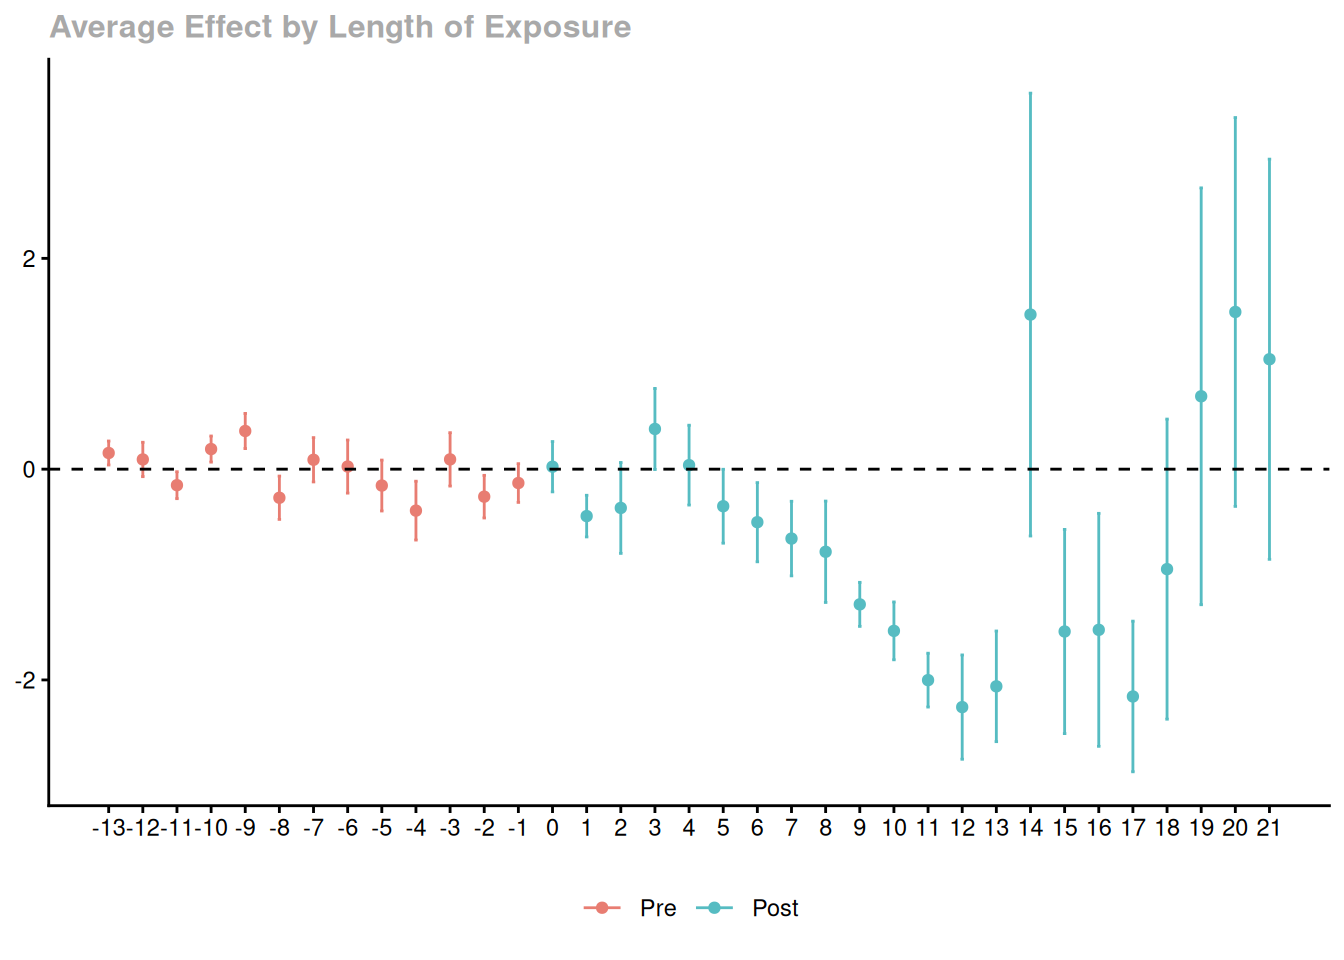
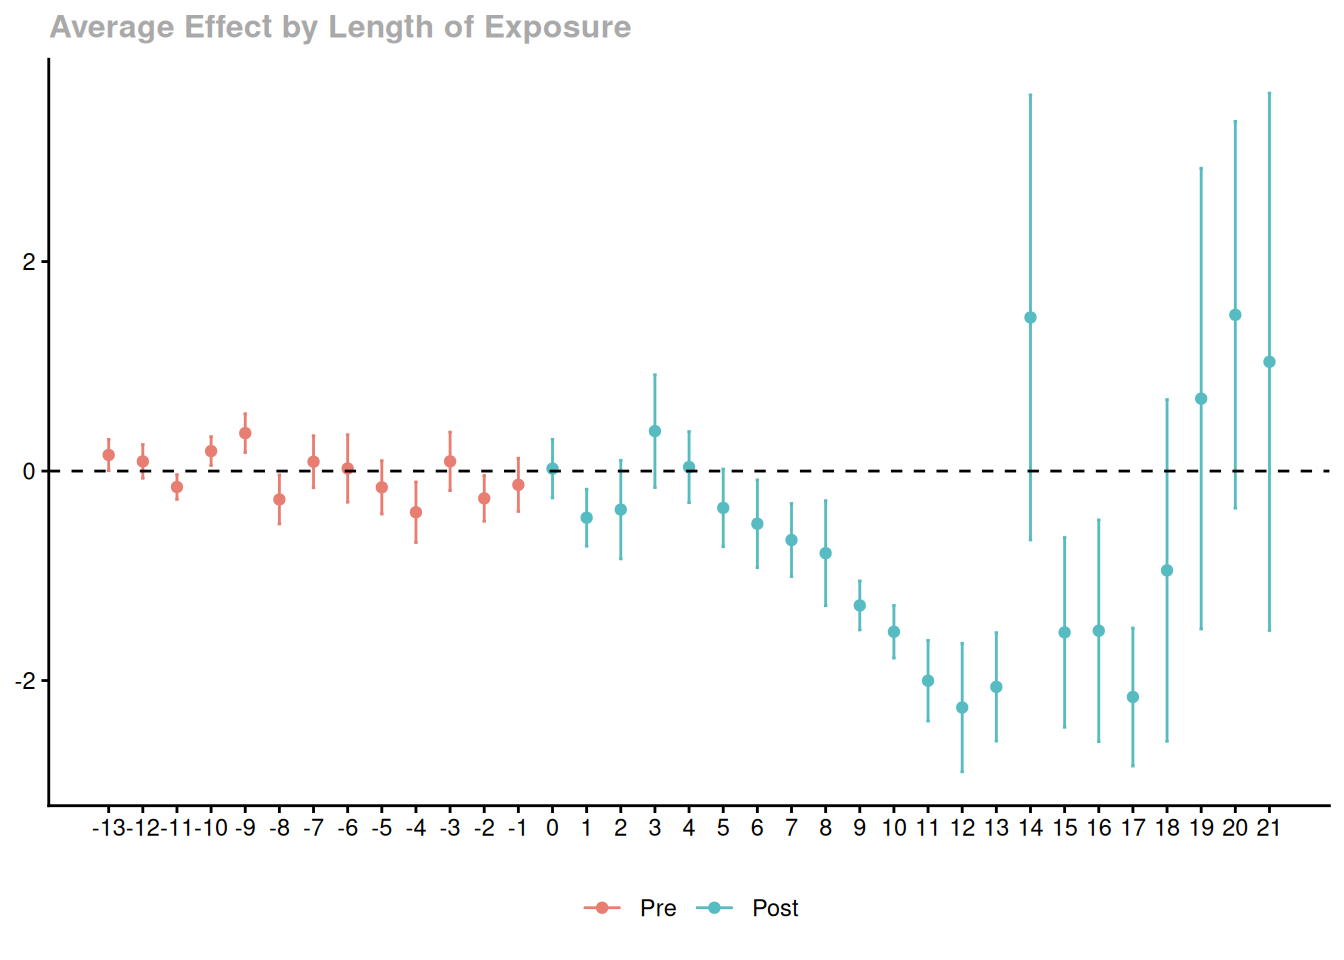
rerender

diff --git a/docs/09_double_difference.html b/docs/09_double_difference.html
@@ -137,7 +137,7 @@ pre > code.sourceCode > span > a:first-child::before { text-decoration: underlin
     <div class="sidebar-title mb-0 py-0">
       <a href="./">Evaluation d’impact de politiques et projets</a> 
         <div class="sidebar-tools-main">
-    <a href="https://github.com/BETSAKA/statcap_impact_training" title="Source Code" class="quarto-navigation-tool px-1" aria-label="Source Code"><i class="bi bi-github"></i></a>
+    <a href="https://github.com/BETSAKA/Tany_Vao_formation_impact_2026" title="Source Code" class="quarto-navigation-tool px-1" aria-label="Source Code"><i class="bi bi-github"></i></a>
 </div>
     </div>
       </div>
@@ -384,46 +384,46 @@ Reference: Callaway, Brantly and Pedro H.C. Sant'Anna.  "Difference-in-Differenc
 
 Overall summary of ATT's based on event-study/dynamic aggregation:  
      ATT    Std. Error     [ 95%  Conf. Int.]  
- -0.6038        0.1209    -0.8407     -0.3668 *
+ -0.6038        0.1473    -0.8925     -0.3151 *
 
 
 Dynamic Effects:
  Event time Estimate Std. Error [95% Simult.  Conf. Band]  
-        -13   0.1535     0.0355        0.0399      0.2670 *
-        -12   0.0921     0.0510       -0.0709      0.2551  
-        -11  -0.1521     0.0399       -0.2799     -0.0244 *
-        -10   0.1907     0.0387        0.0668      0.3146 *
-         -9   0.3622     0.0521        0.1954      0.5289 *
-         -8  -0.2713     0.0642       -0.4767     -0.0660 *
-         -7   0.0891     0.0657       -0.1212      0.2993  
-         -6   0.0248     0.0787       -0.2271      0.2767  
-         -5  -0.1555     0.0754       -0.3968      0.0858  
-         -4  -0.3934     0.0873       -0.6727     -0.1141 *
-         -3   0.0927     0.0791       -0.1603      0.3458  
-         -2  -0.2609     0.0633       -0.4633     -0.0585 *
-         -1  -0.1315     0.0574       -0.3152      0.0522  
-          0   0.0233     0.0747       -0.2155      0.2622  
-          1  -0.4453     0.0618       -0.6430     -0.2476 *
-          2  -0.3679     0.1348       -0.7991      0.0632  
-          3   0.3815     0.1202       -0.0031      0.7661  
-          4   0.0381     0.1184       -0.3408      0.4169  
-          5  -0.3516     0.1096       -0.7022     -0.0011 *
-          6  -0.5031     0.1174       -0.8785     -0.1276 *
-          7  -0.6586     0.1105       -1.0122     -0.3050 *
-          8  -0.7840     0.1503       -1.2647     -0.3032 *
-          9  -1.2830     0.0652       -1.4916     -1.0744 *
-         10  -1.5345     0.0858       -1.8089     -1.2601 *
-         11  -2.0019     0.0798       -2.2572     -1.7465 *
-         12  -2.2578     0.1547       -2.7526     -1.7630 *
-         13  -2.0607     0.1640       -2.5853     -1.5362 *
-         14   1.4668     0.6568       -0.6342      3.5678  
-         15  -1.5404     0.3028       -2.5090     -0.5719 *
-         16  -1.5246     0.3456       -2.6300     -0.4192 *
-         17  -2.1570     0.2234       -2.8715     -1.4425 *
-         18  -0.9486     0.4450       -2.3721      0.4750  
-         19   0.6915     0.6182       -1.2860      2.6689  
-         20   1.4917     0.5767       -0.3531      3.3366  
-         21   1.0431     0.5936       -0.8556      2.9418  
+        -13   0.1535     0.0430        0.0048      0.3021 *
+        -12   0.0921     0.0465       -0.0689      0.2530  
+        -11  -0.1521     0.0341       -0.2701     -0.0341 *
+        -10   0.1907     0.0399        0.0529      0.3285 *
+         -9   0.3622     0.0536        0.1769      0.5474 *
+         -8  -0.2713     0.0676       -0.5052     -0.0375 *
+         -7   0.0891     0.0718       -0.1590      0.3372  
+         -6   0.0248     0.0931       -0.2971      0.3466  
+         -5  -0.1555     0.0735       -0.4098      0.0988  
+         -4  -0.3934     0.0836       -0.6824     -0.1045 *
+         -3   0.0927     0.0809       -0.1868      0.3723  
+         -2  -0.2609     0.0632       -0.4793     -0.0425 *
+         -1  -0.1315     0.0734       -0.3853      0.1223  
+          0   0.0233     0.0808       -0.2561      0.3028  
+          1  -0.4453     0.0786       -0.7172     -0.1734 *
+          2  -0.3679     0.1361       -0.8384      0.1025  
+          3   0.3815     0.1557       -0.1568      0.9198  
+          4   0.0381     0.0981       -0.3012      0.3773  
+          5  -0.3516     0.1072       -0.7222      0.0189  
+          6  -0.5031     0.1212       -0.9220     -0.0841 *
+          7  -0.6586     0.1010       -1.0078     -0.3094 *
+          8  -0.7840     0.1448       -1.2847     -0.2832 *
+          9  -1.2830     0.0676       -1.5168     -1.0491 *
+         10  -1.5345     0.0728       -1.7862     -1.2829 *
+         11  -2.0019     0.1113       -2.3868     -1.6170 *
+         12  -2.2578     0.1774       -2.8713     -1.6444 *
+         13  -2.0607     0.1496       -2.5780     -1.5434 *
+         14   1.4668     0.6144       -0.6576      3.5912  
+         15  -1.5404     0.2620       -2.4463     -0.6346 *
+         16  -1.5246     0.3061       -2.5832     -0.4661 *
+         17  -2.1570     0.1905       -2.8157     -1.4983 *
+         18  -0.9486     0.4718       -2.5799      0.6828  
+         19   0.6915     0.6360       -1.5076      2.8905  
+         20   1.4917     0.5340       -0.3546      3.3380  
+         21   1.0431     0.7418       -1.5220      3.6082  
 ---
 Signif. codes: `*' confidence band does not cover 0
 
@@ -544,7 +544,7 @@ Estimation Method:  Doubly Robust</code></pre>
     }
       var localhostRegex = new RegExp(/^(?:http|https):\/\/localhost\:?[0-9]*\//);
       var mailtoRegex = new RegExp(/^mailto:/);
-        var filterRegex = new RegExp("https:\/\/github\.com\/BETSAKA\/statcap_impact_training\/");
+        var filterRegex = new RegExp("https:\/\/github\.com\/BETSAKA\/Tany_Vao_formation_impact_2026\/");
       var isInternal = (href) => {
           return filterRegex.test(href) || localhostRegex.test(href) || mailtoRegex.test(href);
       }

diff --git a/docs/00_programme.html b/docs/00_programme.html
@@ -102,7 +102,7 @@ ul.task-list li input[type="checkbox"] {
     <div class="sidebar-title mb-0 py-0">
       <a href="./">Evaluation d’impact de politiques et projets</a> 
         <div class="sidebar-tools-main">
-    <a href="https://github.com/BETSAKA/statcap_impact_training" title="Source Code" class="quarto-navigation-tool px-1" aria-label="Source Code"><i class="bi bi-github"></i></a>
+    <a href="https://github.com/BETSAKA/Tany_Vao_formation_impact_2026" title="Source Code" class="quarto-navigation-tool px-1" aria-label="Source Code"><i class="bi bi-github"></i></a>
 </div>
     </div>
       </div>
@@ -442,7 +442,7 @@ ul.task-list li input[type="checkbox"] {
     }
       var localhostRegex = new RegExp(/^(?:http|https):\/\/localhost\:?[0-9]*\//);
       var mailtoRegex = new RegExp(/^mailto:/);
-        var filterRegex = new RegExp("https:\/\/github\.com\/BETSAKA\/statcap_impact_training\/");
+        var filterRegex = new RegExp("https:\/\/github\.com\/BETSAKA\/Tany_Vao_formation_impact_2026\/");
       var isInternal = (href) => {
           return filterRegex.test(href) || localhostRegex.test(href) || mailtoRegex.test(href);
       }

diff --git a/docs/01_introduction.html b/docs/01_introduction.html
@@ -121,7 +121,7 @@ div.csl-indent {
     <div class="sidebar-title mb-0 py-0">
       <a href="./">Evaluation d’impact de politiques et projets</a> 
         <div class="sidebar-tools-main">
-    <a href="https://github.com/BETSAKA/statcap_impact_training" title="Source Code" class="quarto-navigation-tool px-1" aria-label="Source Code"><i class="bi bi-github"></i></a>
+    <a href="https://github.com/BETSAKA/Tany_Vao_formation_impact_2026" title="Source Code" class="quarto-navigation-tool px-1" aria-label="Source Code"><i class="bi bi-github"></i></a>
 </div>
     </div>
       </div>
@@ -416,7 +416,7 @@ Devenish, Katie, Sébastien Desbureaux, Simon Willcock, and Julia P. G. Jones. 2
     }
       var localhostRegex = new RegExp(/^(?:http|https):\/\/localhost\:?[0-9]*\//);
       var mailtoRegex = new RegExp(/^mailto:/);
-        var filterRegex = new RegExp("https:\/\/github\.com\/BETSAKA\/statcap_impact_training\/");
+        var filterRegex = new RegExp("https:\/\/github\.com\/BETSAKA\/Tany_Vao_formation_impact_2026\/");
       var isInternal = (href) => {
           return filterRegex.test(href) || localhostRegex.test(href) || mailtoRegex.test(href);
       }

diff --git a/docs/02_bases_R.html b/docs/02_bases_R.html
@@ -137,7 +137,7 @@ pre > code.sourceCode > span > a:first-child::before { text-decoration: underlin
     <div class="sidebar-title mb-0 py-0">
       <a href="./">Evaluation d’impact de politiques et projets</a> 
         <div class="sidebar-tools-main">
-    <a href="https://github.com/BETSAKA/statcap_impact_training" title="Source Code" class="quarto-navigation-tool px-1" aria-label="Source Code"><i class="bi bi-github"></i></a>
+    <a href="https://github.com/BETSAKA/Tany_Vao_formation_impact_2026" title="Source Code" class="quarto-navigation-tool px-1" aria-label="Source Code"><i class="bi bi-github"></i></a>
 </div>
     </div>
       </div>
@@ -802,7 +802,7 @@ pre > code.sourceCode > span > a:first-child::before { text-decoration: underlin
     }
       var localhostRegex = new RegExp(/^(?:http|https):\/\/localhost\:?[0-9]*\//);
       var mailtoRegex = new RegExp(/^mailto:/);
-        var filterRegex = new RegExp("https:\/\/github\.com\/BETSAKA\/statcap_impact_training\/");
+        var filterRegex = new RegExp("https:\/\/github\.com\/BETSAKA\/Tany_Vao_formation_impact_2026\/");
       var isInternal = (href) => {
           return filterRegex.test(href) || localhostRegex.test(href) || mailtoRegex.test(href);
       }

diff --git a/docs/05_experimentations_aleatoires.html b/docs/05_experimentations_aleatoires.html
@@ -137,7 +137,7 @@ pre > code.sourceCode > span > a:first-child::before { text-decoration: underlin
     <div class="sidebar-title mb-0 py-0">
       <a href="./">Evaluation d’impact de politiques et projets</a> 
         <div class="sidebar-tools-main">
-    <a href="https://github.com/BETSAKA/statcap_impact_training" title="Source Code" class="quarto-navigation-tool px-1" aria-label="Source Code"><i class="bi bi-github"></i></a>
+    <a href="https://github.com/BETSAKA/Tany_Vao_formation_impact_2026" title="Source Code" class="quarto-navigation-tool px-1" aria-label="Source Code"><i class="bi bi-github"></i></a>
 </div>
     </div>
       </div>
@@ -464,7 +464,7 @@ pre > code.sourceCode > span > a:first-child::before { text-decoration: underlin
     }
       var localhostRegex = new RegExp(/^(?:http|https):\/\/localhost\:?[0-9]*\//);
       var mailtoRegex = new RegExp(/^mailto:/);
-        var filterRegex = new RegExp("https:\/\/github\.com\/BETSAKA\/statcap_impact_training\/");
+        var filterRegex = new RegExp("https:\/\/github\.com\/BETSAKA\/Tany_Vao_formation_impact_2026\/");
       var isInternal = (href) => {
           return filterRegex.test(href) || localhostRegex.test(href) || mailtoRegex.test(href);
       }

diff --git a/docs/06_avant_apres.html b/docs/06_avant_apres.html
@@ -137,7 +137,7 @@ pre > code.sourceCode > span > a:first-child::before { text-decoration: underlin
     <div class="sidebar-title mb-0 py-0">
       <a href="./">Evaluation d’impact de politiques et projets</a> 
         <div class="sidebar-tools-main">
-    <a href="https://github.com/BETSAKA/statcap_impact_training" title="Source Code" class="quarto-navigation-tool px-1" aria-label="Source Code"><i class="bi bi-github"></i></a>
+    <a href="https://github.com/BETSAKA/Tany_Vao_formation_impact_2026" title="Source Code" class="quarto-navigation-tool px-1" aria-label="Source Code"><i class="bi bi-github"></i></a>
 </div>
     </div>
       </div>
@@ -406,7 +406,7 @@ pre > code.sourceCode > span > a:first-child::before { text-decoration: underlin
     }
       var localhostRegex = new RegExp(/^(?:http|https):\/\/localhost\:?[0-9]*\//);
       var mailtoRegex = new RegExp(/^mailto:/);
-        var filterRegex = new RegExp("https:\/\/github\.com\/BETSAKA\/statcap_impact_training\/");
+        var filterRegex = new RegExp("https:\/\/github\.com\/BETSAKA\/Tany_Vao_formation_impact_2026\/");
       var isInternal = (href) => {
           return filterRegex.test(href) || localhostRegex.test(href) || mailtoRegex.test(href);
       }

diff --git a/docs/08_appariement.html b/docs/08_appariement.html
@@ -137,7 +137,7 @@ pre > code.sourceCode > span > a:first-child::before { text-decoration: underlin
     <div class="sidebar-title mb-0 py-0">
       <a href="./">Evaluation d’impact de politiques et projets</a> 
         <div class="sidebar-tools-main">
-    <a href="https://github.com/BETSAKA/statcap_impact_training" title="Source Code" class="quarto-navigation-tool px-1" aria-label="Source Code"><i class="bi bi-github"></i></a>
+    <a href="https://github.com/BETSAKA/Tany_Vao_formation_impact_2026" title="Source Code" class="quarto-navigation-tool px-1" aria-label="Source Code"><i class="bi bi-github"></i></a>
 </div>
     </div>
       </div>
@@ -609,7 +609,7 @@ dist_ville       Contin.      NA  0.16513297</code></pre>
     }
       var localhostRegex = new RegExp(/^(?:http|https):\/\/localhost\:?[0-9]*\//);
       var mailtoRegex = new RegExp(/^mailto:/);
-        var filterRegex = new RegExp("https:\/\/github\.com\/BETSAKA\/statcap_impact_training\/");
+        var filterRegex = new RegExp("https:\/\/github\.com\/BETSAKA\/Tany_Vao_formation_impact_2026\/");
       var isInternal = (href) => {
           return filterRegex.test(href) || localhostRegex.test(href) || mailtoRegex.test(href);
       }

diff --git a/docs/10_synthese.html b/docs/10_synthese.html
@@ -102,7 +102,7 @@ ul.task-list li input[type="checkbox"] {
     <div class="sidebar-title mb-0 py-0">
       <a href="./">Evaluation d’impact de politiques et projets</a> 
         <div class="sidebar-tools-main">
-    <a href="https://github.com/BETSAKA/statcap_impact_training" title="Source Code" class="quarto-navigation-tool px-1" aria-label="Source Code"><i class="bi bi-github"></i></a>
+    <a href="https://github.com/BETSAKA/Tany_Vao_formation_impact_2026" title="Source Code" class="quarto-navigation-tool px-1" aria-label="Source Code"><i class="bi bi-github"></i></a>
 </div>
     </div>
       </div>
@@ -392,7 +392,7 @@ ul.task-list li input[type="checkbox"] {
     }
       var localhostRegex = new RegExp(/^(?:http|https):\/\/localhost\:?[0-9]*\//);
       var mailtoRegex = new RegExp(/^mailto:/);
-        var filterRegex = new RegExp("https:\/\/github\.com\/BETSAKA\/statcap_impact_training\/");
+        var filterRegex = new RegExp("https:\/\/github\.com\/BETSAKA\/Tany_Vao_formation_impact_2026\/");
       var isInternal = (href) => {
           return filterRegex.test(href) || localhostRegex.test(href) || mailtoRegex.test(href);
       }

diff --git a/docs/11_references.html b/docs/11_references.html
@@ -120,7 +120,7 @@ div.csl-indent {
     <div class="sidebar-title mb-0 py-0">
       <a href="./">Evaluation d’impact de politiques et projets</a> 
         <div class="sidebar-tools-main">
-    <a href="https://github.com/BETSAKA/statcap_impact_training" title="Source Code" class="quarto-navigation-tool px-1" aria-label="Source Code"><i class="bi bi-github"></i></a>
+    <a href="https://github.com/BETSAKA/Tany_Vao_formation_impact_2026" title="Source Code" class="quarto-navigation-tool px-1" aria-label="Source Code"><i class="bi bi-github"></i></a>
 </div>
     </div>
       </div>
@@ -337,7 +337,7 @@ Evolution</em> 5 (4): 520–29. <a href="https://doi.org/10.1038/s41559-021-0138
     }
       var localhostRegex = new RegExp(/^(?:http|https):\/\/localhost\:?[0-9]*\//);
       var mailtoRegex = new RegExp(/^mailto:/);
-        var filterRegex = new RegExp("https:\/\/github\.com\/BETSAKA\/statcap_impact_training\/");
+        var filterRegex = new RegExp("https:\/\/github\.com\/BETSAKA\/Tany_Vao_formation_impact_2026\/");
       var isInternal = (href) => {
           return filterRegex.test(href) || localhostRegex.test(href) || mailtoRegex.test(href);
       }

diff --git a/docs/index.html b/docs/index.html
@@ -103,7 +103,7 @@ ul.task-list li input[type="checkbox"] {
     <div class="sidebar-title mb-0 py-0">
       <a href="./">Evaluation d’impact de politiques et projets</a> 
         <div class="sidebar-tools-main">
-    <a href="https://github.com/BETSAKA/statcap_impact_training" title="Source Code" class="quarto-navigation-tool px-1" aria-label="Source Code"><i class="bi bi-github"></i></a>
+    <a href="https://github.com/BETSAKA/Tany_Vao_formation_impact_2026" title="Source Code" class="quarto-navigation-tool px-1" aria-label="Source Code"><i class="bi bi-github"></i></a>
 </div>
     </div>
       </div>
@@ -360,7 +360,7 @@ ul.task-list li input[type="checkbox"] {
     }
       var localhostRegex = new RegExp(/^(?:http|https):\/\/localhost\:?[0-9]*\//);
       var mailtoRegex = new RegExp(/^mailto:/);
-        var filterRegex = new RegExp("https:\/\/github\.com\/BETSAKA\/statcap_impact_training\/");
+        var filterRegex = new RegExp("https:\/\/github\.com\/BETSAKA\/Tany_Vao_formation_impact_2026\/");
       var isInternal = (href) => {
           return filterRegex.test(href) || localhostRegex.test(href) || mailtoRegex.test(href);
       }